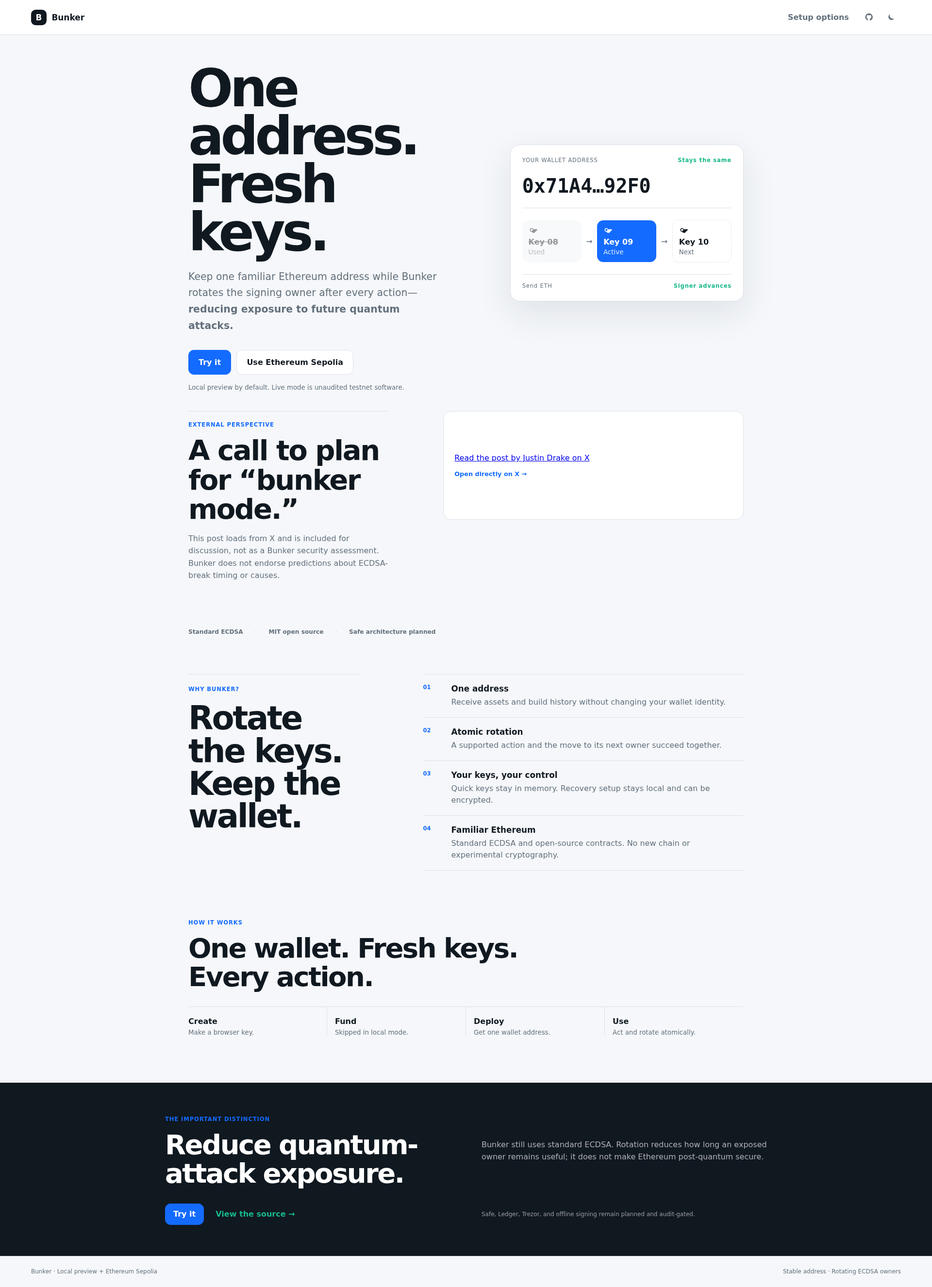
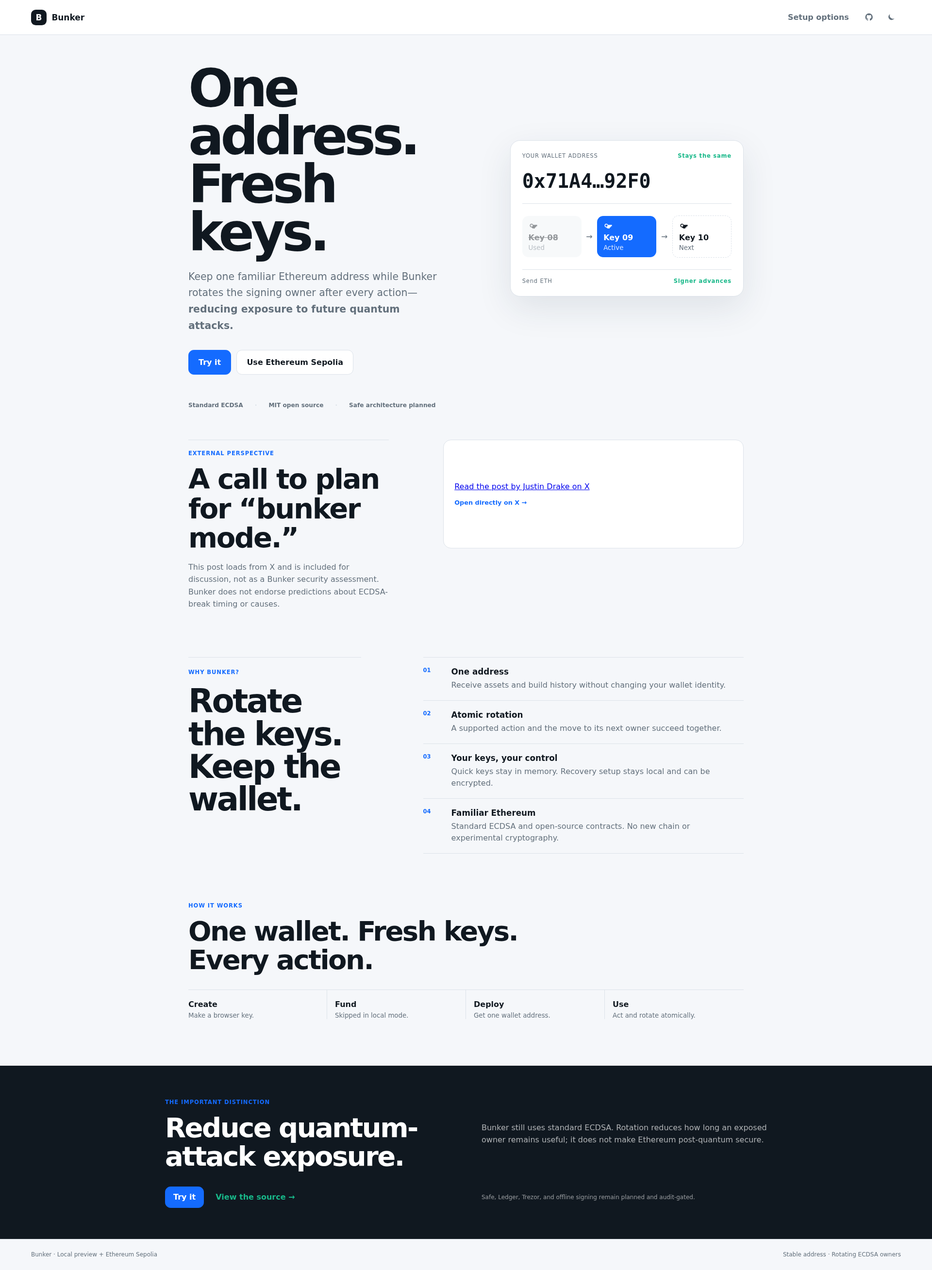
Reorder hero proof and external post

diff --git a/apps/web/src/styles.css b/apps/web/src/styles.css
@@ -1,1 +1,1 @@
-:root{font-family:ui-sans-serif,-apple-system,BlinkMacSystemFont,"Segoe UI",sans-serif;font-synthesis:none;color-scheme:light;background:#f5f7fa}*{box-sizing:border-box}body{margin:0}button,input,textarea{font:inherit}.site{--bg:#f5f7fa;--surface:#fff;--soft:#eef2f6;--line:#dce2e9;--text:#101820;--muted:#63707c;--accent:#146bff;--mint:#18b889;--ink:#fff;min-height:100vh;background:var(--bg);color:var(--text)}.site.dark{--bg:#0b0f14;--surface:#121820;--soft:#18212b;--line:#283442;--text:#f1f5f8;--muted:#9eabb7;--accent:#5c95ff;--mint:#4dd4aa;--ink:#071018;color-scheme:dark}::selection{background:var(--accent);color:#fff}button{border:1px solid var(--line);background:var(--surface);color:var(--text);border-radius:.7rem;padding:.72rem 1rem;font-weight:650;cursor:pointer}button:hover:not(:disabled){border-color:var(--accent)}button:disabled{opacity:.48;cursor:not-allowed}button:focus-visible,input:focus-visible,textarea:focus-visible,a:focus-visible{outline:3px solid var(--accent);outline-offset:2px}.primary{background:var(--accent);border-color:var(--accent);color:#fff}.wide{width:100%;padding:.95rem}.top{height:72px;display:flex;align-items:center;padding:0 clamp(1rem,4vw,4rem);border-bottom:1px solid var(--line);background:color-mix(in srgb,var(--surface),transparent 8%);position:relative;z-index:2}.brand{border:0;background:transparent;padding:0;display:flex;align-items:center;gap:.65rem;font-size:1.06rem}.brand span{display:grid;place-items:center;width:32px;height:32px;border-radius:.6rem;background:var(--text);color:var(--surface);font-weight:900}.top nav{margin-left:auto;display:flex;align-items:center;gap:.35rem}.top nav button{border:0;background:transparent;color:var(--muted)}.top nav button:hover{color:var(--text);background:var(--soft)}.nav-icon{width:2.5rem;height:2.5rem;padding:0;border:1px solid transparent;border-radius:.65rem;display:grid;place-items:center;color:var(--muted);background:transparent}.nav-icon:hover{color:var(--text);background:var(--soft);border-color:var(--line)}.nav-icon svg{width:1.15rem;height:1.15rem;fill:currentColor}.toast{position:fixed;top:84px;left:50%;transform:translateX(-50%);z-index:10;background:var(--text);color:var(--surface);padding:.75rem 1rem;border-radius:2rem;box-shadow:0 12px 35px rgba(0,0,0,.16);font-size:.86rem;max-width:calc(100vw - 2rem)}main{min-height:calc(100vh - 136px)}.hero-new{max-width:1240px;margin:auto;padding:clamp(1rem,2.5vw,2.5rem) clamp(1rem,4vw,3rem) 2.5rem;display:grid;grid-template-columns:1fr .9fr;gap:clamp(3rem,8vw,8rem);align-items:center}.status-dot{display:inline-flex;align-items:center;gap:.45rem;color:var(--mint);font-size:.78rem;font-weight:750;text-transform:uppercase;letter-spacing:.08em}.status-dot:before{content:"";width:7px;height:7px;border-radius:50%;background:var(--mint)}h1,h2,p{margin-top:0}.hero-copy h1{font-size:clamp(3.5rem,7vw,6.8rem);line-height:.91;letter-spacing:-.065em;margin:1.25rem 0 1.6rem;max-width:10ch}.hero-copy>p{font-size:clamp(1.05rem,1.6vw,1.28rem);line-height:1.65;color:var(--muted);max-width:590px}.hero-actions,.secure-actions,.setup-actions{display:flex;gap:.7rem;flex-wrap:wrap;margin:2rem 0 1rem}.hero-actions button{padding:.95rem 1.25rem}.hero-copy>small{color:var(--muted)}.mechanism{background:var(--surface);border:1px solid var(--line);border-radius:1.25rem;padding:1.5rem;box-shadow:0 24px 70px rgba(34,51,68,.1)}.address-head,.action-line{display:flex;justify-content:space-between;gap:1rem;font-size:.72rem;color:var(--muted);letter-spacing:.07em}.address-head b,.action-line b{color:var(--mint)}.mechanism>code{display:block;font:700 clamp(1.5rem,3vw,2.5rem)/1 ui-monospace,SFMono-Regular,monospace;padding:1.6rem 0;border-bottom:1px solid var(--line)}.key-track{display:grid;grid-template-columns:1fr auto 1fr auto 1fr;align-items:center;gap:.6rem;padding:1.5rem 0}.key{display:grid;gap:.25rem;padding:.8rem;border-radius:.8rem;background:var(--soft)}.key svg{width:20px;fill:currentColor}.key span{font-weight:750}.key small{color:var(--muted)}.key.spent{opacity:.45}.key.spent span{text-decoration:line-through}.key.active{background:var(--accent);color:#fff}.key.active small{color:#dfeaff}.key.next{border:1px dashed var(--line);background:transparent}.key-track>i{font-style:normal;color:var(--muted)}.action-line{padding-top:1rem;border-top:1px solid var(--line)}.button-link{display:inline-flex;align-items:center;border:1px solid var(--line);background:var(--surface);color:var(--text);border-radius:.7rem;padding:.95rem 1.25rem;font-weight:650;text-decoration:none}.button-link:hover{border-color:var(--accent)}.trust-line{max-width:1240px;margin:auto;padding:0 clamp(1rem,4vw,3rem) 5rem;display:flex;gap:1.5rem;flex-wrap:wrap;color:var(--muted);font-size:.76rem;font-weight:700}.trust-line span+span:before{content:"·";margin-right:1.5rem;color:var(--line)}.why{max-width:1240px;margin:auto;padding:0 clamp(1rem,4vw,3rem) 6rem;display:grid;grid-template-columns:.7fr 1.3fr;gap:clamp(3rem,8vw,8rem)}.why-head{border-top:1px solid var(--line);padding-top:1.2rem}.why-head>span,.roadmap span{color:var(--accent);font-size:.72rem;font-weight:750;text-transform:uppercase;letter-spacing:.08em}.why-head h2{font-size:clamp(2.2rem,4vw,4.2rem);line-height:1;letter-spacing:-.05em;margin:1.2rem 0}.why-list{border-top:1px solid var(--line)}.why-list article{display:grid;grid-template-columns:42px 1fr;gap:1rem;padding:1.2rem 0;border-bottom:1px solid var(--line)}.why-list article>b{color:var(--accent);font-size:.72rem}.why-list h3{margin:0 0 .35rem;font-size:1.05rem}.why-list p{margin:0;color:var(--muted);line-height:1.5}.flow{max-width:1240px;margin:auto;padding:0 clamp(1rem,4vw,3rem) 6rem}.flow>span{color:var(--accent);font-size:.72rem;font-weight:750;text-transform:uppercase;letter-spacing:.08em}.flow h2{font-size:clamp(2rem,4vw,3.5rem);line-height:1.05;letter-spacing:-.045em;margin:1rem 0 2rem}.flow ol{list-style:none;margin:0;padding:0;display:grid;grid-template-columns:repeat(4,1fr);border-top:1px solid var(--line)}.flow li{padding:1.25rem 1rem 0 0;border-right:1px solid var(--line);display:grid;gap:.35rem}.flow li+li{padding-left:1rem}.flow li:last-child{border:0}.flow small{color:var(--muted)}.roadmap{background:var(--text);color:var(--surface);padding:4rem max(clamp(1rem,8vw,8rem),calc((100vw - 1240px)/2));display:grid;grid-template-columns:1fr 1fr;gap:2rem 4rem;align-items:center}.roadmap h2{font-size:clamp(2rem,4vw,3.5rem);line-height:1.05;letter-spacing:-.045em;margin:1rem 0 0}.roadmap p{color:color-mix(in srgb,var(--surface),transparent 35%);line-height:1.6;margin:0}.roadmap-links{display:flex;align-items:center;gap:1.5rem}.roadmap a{color:var(--mint);font-weight:750;text-decoration:none;white-space:nowrap}.roadmap>small{color:color-mix(in srgb,var(--surface),transparent 45%);grid-column:2;font-size:.75rem}.external-post{max-width:1240px;margin:auto;padding:0 clamp(1rem,4vw,3rem) 5rem;display:grid;grid-template-columns:.8fr 1.2fr;gap:clamp(3rem,8vw,7rem);align-items:start}.post-context{border-top:1px solid var(--line);padding-top:1rem}.post-context>span{color:var(--accent);font-size:.72rem;font-weight:750;text-transform:uppercase;letter-spacing:.08em}.post-context h2{font-size:clamp(2rem,4vw,3.6rem);line-height:1.05;letter-spacing:-.04em;margin:1rem 0}.post-context p,.post-embed p{color:var(--muted);line-height:1.6}.post-embed{min-height:14rem;background:var(--surface);border:1px solid var(--line);border-radius:1rem;padding:1.4rem;display:flex;flex-direction:column;align-items:flex-start;justify-content:center}.post-embed .twitter-tweet{margin:0 auto!important;width:100%!important}.post-link{margin-top:1rem;color:var(--accent);font-size:.8rem;font-weight:700;text-decoration:none}.setup,.advanced,.secure{width:min(720px,calc(100% - 2rem));margin:auto;padding:clamp(3rem,8vw,7rem) 0}.ephemeral-note{font-size:.8rem;color:var(--muted);border-left:1px solid var(--mint);padding-left:.8rem}.setup h1,.advanced h1,.secure h1{font-size:clamp(2.5rem,6vw,4.8rem);line-height:.98;letter-spacing:-.05em;margin:2rem 0 1rem}.stepper{display:grid;grid-template-columns:repeat(3,1fr);position:relative}.stepper:before{content:"";position:absolute;left:2rem;right:2rem;top:17px;height:1px;background:var(--line)}.stepper span{position:relative;display:grid;justify-items:center;gap:.5rem;color:var(--muted);font-size:.72rem}.stepper span:first-letter{background:var(--surface)}.stepper span b{font-size:.8rem}.stepper span.done{color:var(--mint)}.setup-address,.stable{margin:2rem 0;background:var(--surface);border:1px solid var(--line);border-radius:1rem;padding:1rem;display:grid;grid-template-columns:1fr auto;gap:.65rem;align-items:center}.setup-address span,.stable span{font-size:.75rem;color:var(--muted)}.setup-address code,.stable-copy{grid-column:1/2;min-width:0;padding:0;border:0;background:transparent;display:flex;align-items:center;gap:.65rem;text-align:left;color:var(--accent)}.stable-copy:hover code{color:var(--text)}.stable-copy code{overflow-wrap:anywhere;color:inherit}.stable-copy span{flex:none;color:var(--muted);font:700 .7rem/1 system-ui;text-transform:uppercase;letter-spacing:.06em}.setup-address button{grid-row:1/3;grid-column:2}.balance-row{display:flex;justify-content:space-between;border-block:1px solid var(--line);padding:1.2rem 0}.setup-actions button{flex:1}.text-button,.back{border:0;background:transparent;color:var(--muted);padding-left:0}.wallet{max-width:1180px;margin:auto;padding:clamp(.75rem,2.5vw,2rem) 1rem}.wallet-top{display:grid;grid-template-columns:1fr 340px;gap:2rem;align-items:end}.wallet-top h1{font-size:clamp(3.5rem,7vw,6rem);letter-spacing:-.06em;margin:1rem 0 .5rem}.rotation-card{background:var(--text);color:var(--surface);padding:1.4rem;border-radius:1rem}.rotation-card>span{font-size:.68rem;letter-spacing:.1em}.rotation-card strong{display:block;font-size:2rem;margin:.5rem 0}.rotation-card p{color:color-mix(in srgb,var(--surface),transparent 35%);font-size:.8rem}.rotation-card>div{height:5px;background:color-mix(in srgb,var(--surface),transparent 80%);border-radius:5px}.rotation-card i{display:block;height:100%;background:var(--mint);border-radius:5px}.stable{grid-template-columns:1fr auto}.stable b{grid-row:1/3;grid-column:2;color:var(--mint);font-size:.75rem}.signer-sequence{margin:2rem 0;background:var(--surface);border:1px solid var(--line);border-radius:1rem;padding:1.15rem}.signer-sequence>div:first-child{display:flex;justify-content:space-between;gap:1rem}.signer-sequence span{font-weight:750}.signer-sequence small{color:var(--muted)}.signer-steps{display:grid;grid-template-columns:1fr auto 1fr auto 1fr;gap:.75rem;align-items:center;margin-top:1rem}.signer-steps>div{display:grid;gap:.35rem;padding:.8rem;border:1px solid var(--line);border-radius:.7rem}.signer-steps>.current{border-color:var(--accent);background:color-mix(in srgb,var(--accent),transparent 94%)}.signer-steps code{font-size:.8rem}.signer-steps i{font-style:normal;color:var(--muted)}.wallet-grid{display:grid;grid-template-columns:1.2fr .8fr;gap:2rem;margin-top:2rem}.actions-panel,.activity{background:var(--surface);border:1px solid var(--line);border-radius:1rem;padding:1.4rem}svg{width:18px;height:18px;fill:currentColor}.actions-panel h2,.activity h2{font-size:1.15rem;margin-bottom:.4rem}.history-intro{color:var(--muted);font-size:.82rem;line-height:1.45;margin:0 0 1rem}.actions-panel label{display:grid;gap:.45rem;margin:1rem 0;color:var(--muted);font-size:.78rem}.actions-panel input,.actions-panel textarea,.secure input,.secure textarea{width:100%;border:1px solid var(--line);background:var(--bg);color:var(--text);padding:.85rem;border-radius:.65rem}.split{display:grid;grid-template-columns:1fr 110px;gap:.7rem}.activity-row{display:grid;grid-template-columns:auto 1fr auto;gap:.8rem;align-items:start;padding:1rem 0;border-top:1px solid var(--line)}.activity-row>span{font-size:.65rem;background:var(--soft);padding:.3rem .45rem;border-radius:1rem;color:var(--muted)}.activity-row p{display:grid;gap:.25rem;margin:0}.activity-row code{font-size:.7rem;color:var(--muted);overflow-wrap:anywhere}.activity-row small{color:var(--muted)}.activity-row a{color:var(--accent);font-size:.75rem}.option-list{display:grid;margin-top:2.5rem;border-top:1px solid var(--line)}.option-list button{border:0;border-bottom:1px solid var(--line);border-radius:0;background:transparent;display:grid;grid-template-columns:1fr auto;text-align:left;padding:1.2rem 0}.option-list button span{font-size:1rem}.option-list button small{grid-row:2;color:var(--muted);font-weight:400}.option-list button b{grid-row:1/3;grid-column:2;align-self:center;color:var(--accent)}.words{list-style:none;display:grid;grid-template-columns:repeat(4,1fr);gap:1px;background:var(--line);padding:1px;margin:2rem 0}.words li{background:var(--surface);padding:.8rem;font-weight:700}.words span{display:block;color:var(--muted);font-size:.65rem}.check{display:flex;gap:.6rem;align-items:center;color:var(--muted)}.check input{width:auto}.confirm{display:grid;grid-template-columns:repeat(3,1fr);gap:.7rem}.secure label{display:grid;gap:.45rem;margin:1rem 0;color:var(--muted);font-size:.8rem}footer{height:64px;border-top:1px solid var(--line);display:flex;justify-content:space-between;align-items:center;padding:0 clamp(1rem,4vw,4rem);color:var(--muted);font-size:.75rem}@media(max-width:760px){.top{height:64px}.top nav>button:not(.nav-icon):not(.nav-exit){display:none}.hero-new{grid-template-columns:1fr;padding-top:1rem;gap:3rem}.hero-copy h1{font-size:3.8rem}.hero-actions{display:grid}.mechanism{padding:1rem}.key-track{gap:.3rem}.key{padding:.55rem}.key-track>i{display:none}.trust-line{display:grid;grid-template-columns:1fr 1fr;gap:.65rem 1rem}.trust-line span+span:before{content:none}.why{grid-template-columns:1fr;gap:1.5rem}.flow ol{grid-template-columns:1fr 1fr}.flow li{border-bottom:1px solid var(--line);border-right:0;padding:1rem 0}.flow li+li{padding-left:0}.roadmap{grid-template-columns:1fr;gap:1.5rem}.roadmap a{white-space:normal}.roadmap>small{grid-column:1}.external-post{grid-template-columns:1fr;gap:1.5rem;padding-top:0;padding-bottom:4rem}.post-embed{min-height:12rem}.wallet-top,.wallet-grid{grid-template-columns:1fr}.signer-sequence>div:first-child{display:grid}.signer-steps{grid-template-columns:1fr}.signer-steps i{transform:rotate(90deg);justify-self:center}.stable{grid-template-columns:1fr}.stable b{grid-row:auto;grid-column:1}.words{grid-template-columns:repeat(3,1fr)}.confirm{grid-template-columns:1fr}.setup-actions,.secure-actions{display:grid}.toast{top:72px}}@media(prefers-reduced-motion:reduce){*{scroll-behavior:auto!important;transition:none!important}}
+:root{font-family:ui-sans-serif,-apple-system,BlinkMacSystemFont,"Segoe UI",sans-serif;font-synthesis:none;color-scheme:light;background:#f5f7fa}*{box-sizing:border-box}body{margin:0}button,input,textarea{font:inherit}.site{--bg:#f5f7fa;--surface:#fff;--soft:#eef2f6;--line:#dce2e9;--text:#101820;--muted:#63707c;--accent:#146bff;--mint:#18b889;--ink:#fff;min-height:100vh;background:var(--bg);color:var(--text)}.site.dark{--bg:#0b0f14;--surface:#121820;--soft:#18212b;--line:#283442;--text:#f1f5f8;--muted:#9eabb7;--accent:#5c95ff;--mint:#4dd4aa;--ink:#071018;color-scheme:dark}::selection{background:var(--accent);color:#fff}button{border:1px solid var(--line);background:var(--surface);color:var(--text);border-radius:.7rem;padding:.72rem 1rem;font-weight:650;cursor:pointer}button:hover:not(:disabled){border-color:var(--accent)}button:disabled{opacity:.48;cursor:not-allowed}button:focus-visible,input:focus-visible,textarea:focus-visible,a:focus-visible{outline:3px solid var(--accent);outline-offset:2px}.primary{background:var(--accent);border-color:var(--accent);color:#fff}.wide{width:100%;padding:.95rem}.top{height:72px;display:flex;align-items:center;padding:0 clamp(1rem,4vw,4rem);border-bottom:1px solid var(--line);background:color-mix(in srgb,var(--surface),transparent 8%);position:relative;z-index:2}.brand{border:0;background:transparent;padding:0;display:flex;align-items:center;gap:.65rem;font-size:1.06rem}.brand span{display:grid;place-items:center;width:32px;height:32px;border-radius:.6rem;background:var(--text);color:var(--surface);font-weight:900}.top nav{margin-left:auto;display:flex;align-items:center;gap:.35rem}.top nav button{border:0;background:transparent;color:var(--muted)}.top nav button:hover{color:var(--text);background:var(--soft)}.nav-icon{width:2.5rem;height:2.5rem;padding:0;border:1px solid transparent;border-radius:.65rem;display:grid;place-items:center;color:var(--muted);background:transparent}.nav-icon:hover{color:var(--text);background:var(--soft);border-color:var(--line)}.nav-icon svg{width:1.15rem;height:1.15rem;fill:currentColor}.toast{position:fixed;top:84px;left:50%;transform:translateX(-50%);z-index:10;background:var(--text);color:var(--surface);padding:.75rem 1rem;border-radius:2rem;box-shadow:0 12px 35px rgba(0,0,0,.16);font-size:.86rem;max-width:calc(100vw - 2rem)}main{min-height:calc(100vh - 136px)}.hero-new{max-width:1240px;margin:auto;padding:clamp(1rem,2.5vw,2.5rem) clamp(1rem,4vw,3rem) 2.5rem;display:grid;grid-template-columns:1fr .9fr;gap:clamp(3rem,8vw,8rem);align-items:center}.status-dot{display:inline-flex;align-items:center;gap:.45rem;color:var(--mint);font-size:.78rem;font-weight:750;text-transform:uppercase;letter-spacing:.08em}.status-dot:before{content:"";width:7px;height:7px;border-radius:50%;background:var(--mint)}h1,h2,p{margin-top:0}.hero-copy h1{font-size:clamp(3.5rem,7vw,6.8rem);line-height:.91;letter-spacing:-.065em;margin:1.25rem 0 1.6rem;max-width:10ch}.hero-copy>p{font-size:clamp(1.05rem,1.6vw,1.28rem);line-height:1.65;color:var(--muted);max-width:590px}.hero-actions,.secure-actions,.setup-actions{display:flex;gap:.7rem;flex-wrap:wrap;margin:2rem 0 1rem}.hero-actions button{padding:.95rem 1.25rem}.hero-copy>small{color:var(--muted)}.mechanism{background:var(--surface);border:1px solid var(--line);border-radius:1.25rem;padding:1.5rem;box-shadow:0 24px 70px rgba(34,51,68,.1)}.address-head,.action-line{display:flex;justify-content:space-between;gap:1rem;font-size:.72rem;color:var(--muted);letter-spacing:.07em}.address-head b,.action-line b{color:var(--mint)}.mechanism>code{display:block;font:700 clamp(1.5rem,3vw,2.5rem)/1 ui-monospace,SFMono-Regular,monospace;padding:1.6rem 0;border-bottom:1px solid var(--line)}.key-track{display:grid;grid-template-columns:1fr auto 1fr auto 1fr;align-items:center;gap:.6rem;padding:1.5rem 0}.key{display:grid;gap:.25rem;padding:.8rem;border-radius:.8rem;background:var(--soft)}.key svg{width:20px;fill:currentColor}.key span{font-weight:750}.key small{color:var(--muted)}.key.spent{opacity:.45}.key.spent span{text-decoration:line-through}.key.active{background:var(--accent);color:#fff}.key.active small{color:#dfeaff}.key.next{border:1px dashed var(--line);background:transparent}.key-track>i{font-style:normal;color:var(--muted)}.action-line{padding-top:1rem;border-top:1px solid var(--line)}.button-link{display:inline-flex;align-items:center;border:1px solid var(--line);background:var(--surface);color:var(--text);border-radius:.7rem;padding:.95rem 1.25rem;font-weight:650;text-decoration:none}.button-link:hover{border-color:var(--accent)}.trust-line{max-width:1240px;margin:auto;padding:0 clamp(1rem,4vw,3rem);display:flex;gap:1.5rem;flex-wrap:wrap;color:var(--muted);font-size:.76rem;font-weight:700}.trust-line span+span:before{content:"·";margin-right:1.5rem;color:var(--line)}.why{max-width:1240px;margin:auto;padding:0 clamp(1rem,4vw,3rem) 6rem;display:grid;grid-template-columns:.7fr 1.3fr;gap:clamp(3rem,8vw,8rem)}.why-head{border-top:1px solid var(--line);padding-top:1.2rem}.why-head>span,.roadmap span{color:var(--accent);font-size:.72rem;font-weight:750;text-transform:uppercase;letter-spacing:.08em}.why-head h2{font-size:clamp(2.2rem,4vw,4.2rem);line-height:1;letter-spacing:-.05em;margin:1.2rem 0}.why-list{border-top:1px solid var(--line)}.why-list article{display:grid;grid-template-columns:42px 1fr;gap:1rem;padding:1.2rem 0;border-bottom:1px solid var(--line)}.why-list article>b{color:var(--accent);font-size:.72rem}.why-list h3{margin:0 0 .35rem;font-size:1.05rem}.why-list p{margin:0;color:var(--muted);line-height:1.5}.flow{max-width:1240px;margin:auto;padding:0 clamp(1rem,4vw,3rem) 6rem}.flow>span{color:var(--accent);font-size:.72rem;font-weight:750;text-transform:uppercase;letter-spacing:.08em}.flow h2{font-size:clamp(2rem,4vw,3.5rem);line-height:1.05;letter-spacing:-.045em;margin:1rem 0 2rem}.flow ol{list-style:none;margin:0;padding:0;display:grid;grid-template-columns:repeat(4,1fr);border-top:1px solid var(--line)}.flow li{padding:1.25rem 1rem 0 0;border-right:1px solid var(--line);display:grid;gap:.35rem}.flow li+li{padding-left:1rem}.flow li:last-child{border:0}.flow small{color:var(--muted)}.roadmap{background:var(--text);color:var(--surface);padding:4rem max(clamp(1rem,8vw,8rem),calc((100vw - 1240px)/2));display:grid;grid-template-columns:1fr 1fr;gap:2rem 4rem;align-items:center}.roadmap h2{font-size:clamp(2rem,4vw,3.5rem);line-height:1.05;letter-spacing:-.045em;margin:1rem 0 0}.roadmap p{color:color-mix(in srgb,var(--surface),transparent 35%);line-height:1.6;margin:0}.roadmap-links{display:flex;align-items:center;gap:1.5rem}.roadmap a{color:var(--mint);font-weight:750;text-decoration:none;white-space:nowrap}.roadmap>small{color:color-mix(in srgb,var(--surface),transparent 45%);grid-column:2;font-size:.75rem}.external-post{max-width:1240px;margin:auto;padding:clamp(2rem,4vw,4rem) clamp(1rem,4vw,3rem) 5rem;display:grid;grid-template-columns:.8fr 1.2fr;gap:clamp(3rem,8vw,7rem);align-items:start}.post-context{border-top:1px solid var(--line);padding-top:1rem}.post-context>span{color:var(--accent);font-size:.72rem;font-weight:750;text-transform:uppercase;letter-spacing:.08em}.post-context h2{font-size:clamp(2rem,4vw,3.6rem);line-height:1.05;letter-spacing:-.04em;margin:1rem 0}.post-context p,.post-embed p{color:var(--muted);line-height:1.6}.post-embed{min-height:14rem;background:var(--surface);border:1px solid var(--line);border-radius:1rem;padding:1.4rem;display:flex;flex-direction:column;align-items:flex-start;justify-content:center}.post-embed .twitter-tweet{margin:0 auto!important;width:100%!important}.post-link{margin-top:1rem;color:var(--accent);font-size:.8rem;font-weight:700;text-decoration:none}.setup,.advanced,.secure{width:min(720px,calc(100% - 2rem));margin:auto;padding:clamp(3rem,8vw,7rem) 0}.ephemeral-note{font-size:.8rem;color:var(--muted);border-left:1px solid var(--mint);padding-left:.8rem}.setup h1,.advanced h1,.secure h1{font-size:clamp(2.5rem,6vw,4.8rem);line-height:.98;letter-spacing:-.05em;margin:2rem 0 1rem}.stepper{display:grid;grid-template-columns:repeat(3,1fr);position:relative}.stepper:before{content:"";position:absolute;left:2rem;right:2rem;top:17px;height:1px;background:var(--line)}.stepper span{position:relative;display:grid;justify-items:center;gap:.5rem;color:var(--muted);font-size:.72rem}.stepper span:first-letter{background:var(--surface)}.stepper span b{font-size:.8rem}.stepper span.done{color:var(--mint)}.setup-address,.stable{margin:2rem 0;background:var(--surface);border:1px solid var(--line);border-radius:1rem;padding:1rem;display:grid;grid-template-columns:1fr auto;gap:.65rem;align-items:center}.setup-address span,.stable span{font-size:.75rem;color:var(--muted)}.setup-address code,.stable-copy{grid-column:1/2;min-width:0;padding:0;border:0;background:transparent;display:flex;align-items:center;gap:.65rem;text-align:left;color:var(--accent)}.stable-copy:hover code{color:var(--text)}.stable-copy code{overflow-wrap:anywhere;color:inherit}.stable-copy span{flex:none;color:var(--muted);font:700 .7rem/1 system-ui;text-transform:uppercase;letter-spacing:.06em}.setup-address button{grid-row:1/3;grid-column:2}.balance-row{display:flex;justify-content:space-between;border-block:1px solid var(--line);padding:1.2rem 0}.setup-actions button{flex:1}.text-button,.back{border:0;background:transparent;color:var(--muted);padding-left:0}.wallet{max-width:1180px;margin:auto;padding:clamp(.75rem,2.5vw,2rem) 1rem}.wallet-top{display:grid;grid-template-columns:1fr 340px;gap:2rem;align-items:end}.wallet-top h1{font-size:clamp(3.5rem,7vw,6rem);letter-spacing:-.06em;margin:1rem 0 .5rem}.rotation-card{background:var(--text);color:var(--surface);padding:1.4rem;border-radius:1rem}.rotation-card>span{font-size:.68rem;letter-spacing:.1em}.rotation-card strong{display:block;font-size:2rem;margin:.5rem 0}.rotation-card p{color:color-mix(in srgb,var(--surface),transparent 35%);font-size:.8rem}.rotation-card>div{height:5px;background:color-mix(in srgb,var(--surface),transparent 80%);border-radius:5px}.rotation-card i{display:block;height:100%;background:var(--mint);border-radius:5px}.stable{grid-template-columns:1fr auto}.stable b{grid-row:1/3;grid-column:2;color:var(--mint);font-size:.75rem}.signer-sequence{margin:2rem 0;background:var(--surface);border:1px solid var(--line);border-radius:1rem;padding:1.15rem}.signer-sequence>div:first-child{display:flex;justify-content:space-between;gap:1rem}.signer-sequence span{font-weight:750}.signer-sequence small{color:var(--muted)}.signer-steps{display:grid;grid-template-columns:1fr auto 1fr auto 1fr;gap:.75rem;align-items:center;margin-top:1rem}.signer-steps>div{display:grid;gap:.35rem;padding:.8rem;border:1px solid var(--line);border-radius:.7rem}.signer-steps>.current{border-color:var(--accent);background:color-mix(in srgb,var(--accent),transparent 94%)}.signer-steps code{font-size:.8rem}.signer-steps i{font-style:normal;color:var(--muted)}.wallet-grid{display:grid;grid-template-columns:1.2fr .8fr;gap:2rem;margin-top:2rem}.actions-panel,.activity{background:var(--surface);border:1px solid var(--line);border-radius:1rem;padding:1.4rem}svg{width:18px;height:18px;fill:currentColor}.actions-panel h2,.activity h2{font-size:1.15rem;margin-bottom:.4rem}.history-intro{color:var(--muted);font-size:.82rem;line-height:1.45;margin:0 0 1rem}.actions-panel label{display:grid;gap:.45rem;margin:1rem 0;color:var(--muted);font-size:.78rem}.actions-panel input,.actions-panel textarea,.secure input,.secure textarea{width:100%;border:1px solid var(--line);background:var(--bg);color:var(--text);padding:.85rem;border-radius:.65rem}.split{display:grid;grid-template-columns:1fr 110px;gap:.7rem}.activity-row{display:grid;grid-template-columns:auto 1fr auto;gap:.8rem;align-items:start;padding:1rem 0;border-top:1px solid var(--line)}.activity-row>span{font-size:.65rem;background:var(--soft);padding:.3rem .45rem;border-radius:1rem;color:var(--muted)}.activity-row p{display:grid;gap:.25rem;margin:0}.activity-row code{font-size:.7rem;color:var(--muted);overflow-wrap:anywhere}.activity-row small{color:var(--muted)}.activity-row a{color:var(--accent);font-size:.75rem}.option-list{display:grid;margin-top:2.5rem;border-top:1px solid var(--line)}.option-list button{border:0;border-bottom:1px solid var(--line);border-radius:0;background:transparent;display:grid;grid-template-columns:1fr auto;text-align:left;padding:1.2rem 0}.option-list button span{font-size:1rem}.option-list button small{grid-row:2;color:var(--muted);font-weight:400}.option-list button b{grid-row:1/3;grid-column:2;align-self:center;color:var(--accent)}.words{list-style:none;display:grid;grid-template-columns:repeat(4,1fr);gap:1px;background:var(--line);padding:1px;margin:2rem 0}.words li{background:var(--surface);padding:.8rem;font-weight:700}.words span{display:block;color:var(--muted);font-size:.65rem}.check{display:flex;gap:.6rem;align-items:center;color:var(--muted)}.check input{width:auto}.confirm{display:grid;grid-template-columns:repeat(3,1fr);gap:.7rem}.secure label{display:grid;gap:.45rem;margin:1rem 0;color:var(--muted);font-size:.8rem}footer{height:64px;border-top:1px solid var(--line);display:flex;justify-content:space-between;align-items:center;padding:0 clamp(1rem,4vw,4rem);color:var(--muted);font-size:.75rem}@media(max-width:760px){.top{height:64px}.top nav>button:not(.nav-icon):not(.nav-exit){display:none}.hero-new{grid-template-columns:1fr;padding-top:1rem;gap:3rem}.hero-copy h1{font-size:3.8rem}.hero-actions{display:grid}.mechanism{padding:1rem}.key-track{gap:.3rem}.key{padding:.55rem}.key-track>i{display:none}.trust-line{display:grid;grid-template-columns:1fr 1fr;gap:.65rem 1rem}.trust-line span+span:before{content:none}.why{grid-template-columns:1fr;gap:1.5rem}.flow ol{grid-template-columns:1fr 1fr}.flow li{border-bottom:1px solid var(--line);border-right:0;padding:1rem 0}.flow li+li{padding-left:0}.roadmap{grid-template-columns:1fr;gap:1.5rem}.roadmap a{white-space:normal}.roadmap>small{grid-column:1}.external-post{grid-template-columns:1fr;gap:1.5rem;padding-top:2rem;padding-bottom:4rem}.post-embed{min-height:12rem}.wallet-top,.wallet-grid{grid-template-columns:1fr}.signer-sequence>div:first-child{display:grid}.signer-steps{grid-template-columns:1fr}.signer-steps i{transform:rotate(90deg);justify-self:center}.stable{grid-template-columns:1fr}.stable b{grid-row:auto;grid-column:1}.words{grid-template-columns:repeat(3,1fr)}.confirm{grid-template-columns:1fr}.setup-actions,.secure-actions{display:grid}.toast{top:72px}}@media(prefers-reduced-motion:reduce){*{scroll-behavior:auto!important;transition:none!important}}

diff --git a/apps/web/src/App.tsx b/apps/web/src/App.tsx
@@ -35,7 +35,7 @@ export default function App(){
  onCleanup(()=>{wipe();clearEphemeralBurner()});
  return <div class={`site ${theme()}`}><header class="top"><button class="brand" onClick={()=>go(walletAddress()?"wallet":"landing")}><span>B</span>Bunker</button><nav><Show when={walletAddress()}><button onClick={()=>go("wallet")}>Wallet</button></Show><button onClick={()=>go("advanced")}>Setup options</button><a class="nav-icon" href="https://github.com/SilentCicero/bunker-wallet" target="_blank" rel="noreferrer" aria-label="View Bunker on GitHub"><NavIcon name="github"/></a><button class="nav-icon" aria-label={theme()==="light"?"Use dark mode":"Use light mode"} title={theme()==="light"?"Use dark mode":"Use light mode"} onClick={()=>setTheme(theme()==="light"?"dark":"light")}><NavIcon name={theme()==="light"?"moon":"sun"}/></button><Show when={walletAddress()}><button class="nav-exit" onClick={exit}>Exit</button></Show></nav></header><Show when={notice()}><div class="toast" role="status">{notice()}</div></Show>
  <main>
- <Show when={view()==="landing"}><section class="hero-new"><div class="hero-copy"><h1>One address.<br/>Fresh keys.</h1><p>Keep one familiar Ethereum address while Bunker rotates the signing owner after every action—<strong>reducing exposure to future quantum attacks.</strong></p><div class="hero-actions"><button class="primary" onClick={begin}>Try it</button><button class="button-link" onClick={beginSepolia}>Use Ethereum Sepolia</button></div><small>Local preview by default. Live mode is unaudited testnet software.</small></div><div class="mechanism" aria-label="Stable wallet address with rotating owner keys"><div class="address-head"><span>YOUR WALLET ADDRESS</span><b>Stays the same</b></div><code>0x71A4…92F0</code><div class="key-track"><div class="key spent"><Icon/><span>Key 08</span><small>Used</small></div><i>→</i><div class="key active"><Icon/><span>Key 09</span><small>Active</small></div><i>→</i><div class="key next"><Icon/><span>Key 10</span><small>Next</small></div></div><div class="action-line"><span>Send ETH</span><b>Signer advances</b></div></div></section><section class="external-post"><div class="post-context"><span>External perspective</span><h2>A call to plan for “bunker mode.”</h2><p>This post loads from X and is included for discussion, not as a Bunker security assessment. Bunker does not endorse predictions about ECDSA-break timing or causes.</p></div><div class="post-embed"><blockquote class="twitter-tweet" data-dnt="true"><a href="https://x.com/drakefjustin/status/2107837081313505768">Read the post by Justin Drake on X</a></blockquote><a class="post-link" href="https://x.com/drakefjustin/status/2107837081313505768" target="_blank" rel="noreferrer">Open directly on X →</a></div></section><div class="trust-line"><span>Standard ECDSA</span><span>MIT open source</span><span>Safe architecture planned</span></div><section class="why" id="how-it-works"><div class="why-head"><span>Why Bunker?</span><h2>Rotate the keys.<br/>Keep the wallet.</h2></div><div class="why-list"><article><b>01</b><div><h3>One address</h3><p>Receive assets and build history without changing your wallet identity.</p></div></article><article><b>02</b><div><h3>Atomic rotation</h3><p>A supported action and the move to its next owner succeed together.</p></div></article><article><b>03</b><div><h3>Your keys, your control</h3><p>Quick keys stay in memory. Recovery setup stays local and can be encrypted.</p></div></article><article><b>04</b><div><h3>Familiar Ethereum</h3><p>Standard ECDSA and open-source contracts. No new chain or experimental cryptography.</p></div></article></div></section><section class="flow"><span>How it works</span><h2>One wallet. Fresh keys.<br/>Every action.</h2><ol><li><b>Create</b><small>Make a browser key.</small></li><li><b>Fund</b><small>Skipped in local mode.</small></li><li><b>Deploy</b><small>Get one wallet address.</small></li><li><b>Use</b><small>Act and rotate atomically.</small></li></ol></section><section class="roadmap"><div><span>The important distinction</span><h2>Reduce quantum-<br/>attack exposure.</h2></div><p>Bunker still uses standard ECDSA. Rotation reduces how long an exposed owner remains useful; it does not make Ethereum post-quantum secure.</p><div class="roadmap-links"><button class="primary" onClick={begin}>Try it</button><a href="https://github.com/SilentCicero/bunker-wallet" target="_blank" rel="noreferrer">View the source →</a></div><small>Safe, Ledger, Trezor, and offline signing remain planned and audit-gated.</small></section></Show>
+ <Show when={view()==="landing"}><section class="hero-new"><div class="hero-copy"><h1>One address.<br/>Fresh keys.</h1><p>Keep one familiar Ethereum address while Bunker rotates the signing owner after every action—<strong>reducing exposure to future quantum attacks.</strong></p><div class="hero-actions"><button class="primary" onClick={begin}>Try it</button><button class="button-link" onClick={beginSepolia}>Use Ethereum Sepolia</button></div></div><div class="mechanism" aria-label="Stable wallet address with rotating owner keys"><div class="address-head"><span>YOUR WALLET ADDRESS</span><b>Stays the same</b></div><code>0x71A4…92F0</code><div class="key-track"><div class="key spent"><Icon/><span>Key 08</span><small>Used</small></div><i>→</i><div class="key active"><Icon/><span>Key 09</span><small>Active</small></div><i>→</i><div class="key next"><Icon/><span>Key 10</span><small>Next</small></div></div><div class="action-line"><span>Send ETH</span><b>Signer advances</b></div></div></section><div class="trust-line"><span>Standard ECDSA</span><span>MIT open source</span><span>Safe architecture planned</span></div><section class="external-post"><div class="post-context"><span>External perspective</span><h2>A call to plan for “bunker mode.”</h2><p>This post loads from X and is included for discussion, not as a Bunker security assessment. Bunker does not endorse predictions about ECDSA-break timing or causes.</p></div><div class="post-embed"><blockquote class="twitter-tweet" data-dnt="true"><a href="https://x.com/drakefjustin/status/2107837081313505768">Read the post by Justin Drake on X</a></blockquote><a class="post-link" href="https://x.com/drakefjustin/status/2107837081313505768" target="_blank" rel="noreferrer">Open directly on X →</a></div></section><section class="why" id="how-it-works"><div class="why-head"><span>Why Bunker?</span><h2>Rotate the keys.<br/>Keep the wallet.</h2></div><div class="why-list"><article><b>01</b><div><h3>One address</h3><p>Receive assets and build history without changing your wallet identity.</p></div></article><article><b>02</b><div><h3>Atomic rotation</h3><p>A supported action and the move to its next owner succeed together.</p></div></article><article><b>03</b><div><h3>Your keys, your control</h3><p>Quick keys stay in memory. Recovery setup stays local and can be encrypted.</p></div></article><article><b>04</b><div><h3>Familiar Ethereum</h3><p>Standard ECDSA and open-source contracts. No new chain or experimental cryptography.</p></div></article></div></section><section class="flow"><span>How it works</span><h2>One wallet. Fresh keys.<br/>Every action.</h2><ol><li><b>Create</b><small>Make a browser key.</small></li><li><b>Fund</b><small>Skipped in local mode.</small></li><li><b>Deploy</b><small>Get one wallet address.</small></li><li><b>Use</b><small>Act and rotate atomically.</small></li></ol></section><section class="roadmap"><div><span>The important distinction</span><h2>Reduce quantum-<br/>attack exposure.</h2></div><p>Bunker still uses standard ECDSA. Rotation reduces how long an exposed owner remains useful; it does not make Ethereum post-quantum secure.</p><div class="roadmap-links"><button class="primary" onClick={begin}>Try it</button><a href="https://github.com/SilentCicero/bunker-wallet" target="_blank" rel="noreferrer">View the source →</a></div><small>Safe, Ledger, Trezor, and offline signing remain planned and audit-gated.</small></section></Show>
  <Show when={view()==="setup"}><section class="setup"><div class="stepper"><span class="done">1 <b>Key</b></span><span classList={{done:mode()==="local"||setupBalance()>=parseEther("0.007")}}>2 <b>{mode()==="local"?"Ready":"Fund"}</b></span><span classList={{done:Boolean(walletAddress())}}>3 <b>Create</b></span></div><h1>{mode()==="local"?"Your local preview is ready.":setupBalance()>=parseEther("0.007")?"Create your stable wallet.":"Add Ethereum Sepolia test ETH."}</h1><p>{mode()==="local"?"No faucet, wallet connection, or blockchain transaction. Everything stays in this tab.":setupBalance()>=parseEther("0.007")?"Your setup key is funded. Create the wallet contract and move the test ETH into its permanent address.":"Your temporary setup address is ready and copied when you open the faucet."}</p><Show when={!recoverable()}><p class="ephemeral-note">Quick setup is memory-only. Do not refresh during funding or after wallet creation. Use Recovery phrase setup if you want restoration later.</p></Show><div class="setup-address"><span>Setup address</span><code>{setupAddress()}</code><button onClick={()=>copy(setupAddress())}>Copy</button></div><div class="balance-row"><span>{mode()==="local"?"Preview balance":"Setup balance"}</span><strong>{Number(formatEther(setupBalance())).toFixed(4)} ETH</strong></div><Show when={mode()==="local"||setupBalance()>=parseEther("0.007")} fallback={<div class="setup-actions"><button class="primary" onClick={openFaucet}>Open Google Cloud faucet</button><button onClick={checkFunding} disabled={Boolean(busy())}>{busy()||"I funded it — check balance"}</button></div>}><button class="primary wide" onClick={createStableWallet} disabled={Boolean(busy())}>{busy()||"Create stable wallet"}</button></Show><button class="text-button" onClick={()=>go("advanced")}>Use another setup method</button></section></Show>
  <Show when={view()==="wallet"&&walletAddress()}><section class="wallet"><div class="wallet-top"><div><span class="status-dot">{mode()==="local"?"Local preview · simulated, not broadcast":"Ethereum Sepolia · live"}</span><h1>{Number(formatEther(walletBalance())).toFixed(4)} ETH</h1></div><div class="rotation-card"><span>OWNER ROTATION</span><strong>Key {rotation()+1}</strong><p>Active underneath your stable address</p><div><i style={{width:`${Math.min(100,(rotation()+1)*8)}%`}}/></div></div></div><div class="stable"><span>Stable wallet address</span><button class="stable-copy" aria-label="Copy stable wallet address" onClick={()=>copy(walletAddress())}><code>{walletAddress()}</code><span>Copy</span></button><b>Does not change</b></div><Show when={mode()==="local"}><section class="signer-sequence"><div><span>Preview signing sequence</span><small>Simulated locally · wallet address stays fixed</small></div><div class="signer-steps"><div><small>Last signer</small><code>{activity()[0]?.usedSigner?short(activity()[0]?.usedSigner!):"—"}</code></div><i>→</i><div class="current"><small>Active signer · Key {rotation()+1}</small><code>{owner()&&short(owner()!)}</code></div><i>→</i><div><small>Next signer · Key {rotation()+2}</small><code>{nextSigner()&&short(nextSigner()!)}</code></div></div></section></Show><div class="wallet-grid"><section class="actions-panel"><h2>Send ETH</h2><label>Recipient<input ref={to} value={mode()==="local"?"justindrake.eth":""} placeholder={mode()==="local"?"justindrake.eth":"0x…"}/></label><label>Amount<input ref={amount} value={mode()==="local"?"0.001":""} inputmode="decimal" placeholder="0.001"/></label><button class="primary wide" onClick={runETH} disabled={Boolean(busy())}>{busy()||"Send + rotate key"}</button></section><aside class="activity"><h2>Signing rotation history</h2><p class="history-intro">Your wallet address stays fixed. Each action advances the signer.</p><For each={activity()}>{item=><div class="activity-row"><span>{item.index===rotation()?"Latest":"Done"}</span><p><b>{item.label}</b><small>{item.usedSigner?`Key ${item.index} → Key ${item.index+1}`:`Key ${item.index+1} active`}</small><Show when={item.usedSigner}><code>Used signer · {short(item.usedSigner!)}</code></Show></p>{item.hash?<a href={`https://sepolia.etherscan.io/tx/${item.hash}`} target="_blank" rel="noreferrer">View</a>:<small>Preview</small>}</div>}</For></aside></div></section></Show>
  <Show when={view()==="advanced"}><section class="advanced"><button class="back" onClick={()=>go("landing")}>← Back</button><h1>Choose how to protect the setup key.</h1><p>Each method creates a stable wallet address with automatic owner rotation.</p><div class="option-list"><button onClick={beginSepolia}><span>Ethereum Sepolia</span><small>Live testnet · Google Cloud faucet</small><b>Use testnet</b></button><button onClick={createPhrase}><span>Recovery phrase</span><small>24 words · optional check and password</small><b>Set up</b></button><button onClick={()=>{setMode("sepolia");go("load")}}><span>Load existing wallet</span><small>Encrypted vault or 24 words</small><b>Load</b></button><button disabled><span>Ledger</span><small>Hardware setup · compatibility verification in progress</small><b>Soon</b></button><button disabled><span>Trezor</span><small>Hardware setup · compatibility verification in progress</small><b>Soon</b></button><button disabled><span>EVM wallet</span><small>Manual next-key proof required</small><b>Soon</b></button></div></section></Show>
